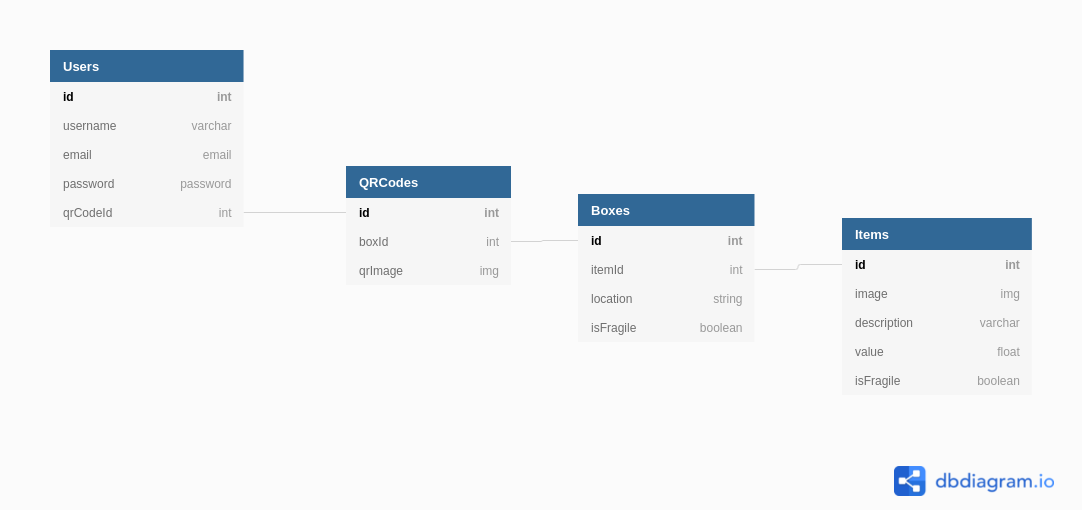
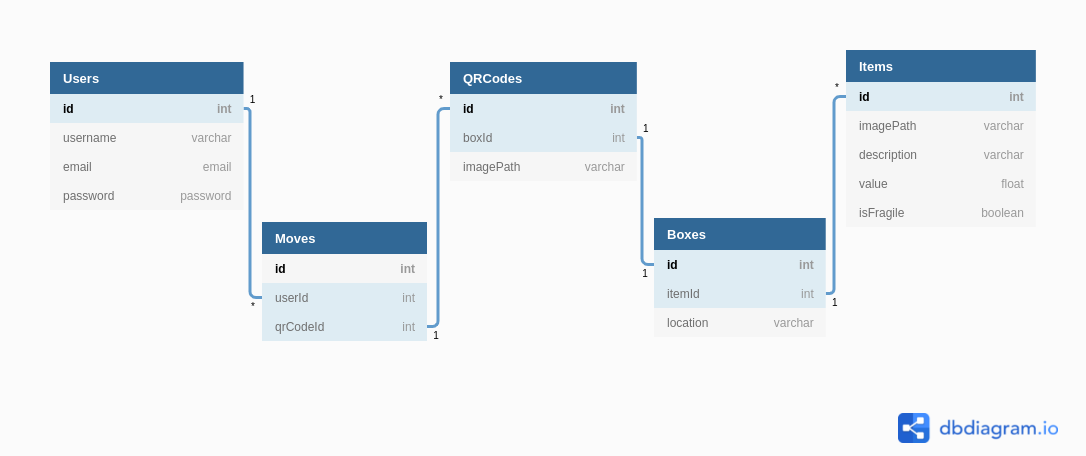
doc: add endpoints and update ERD/layout images.

diff --git a/README.md b/README.md
@@ -32,6 +32,20 @@ Boxes have assoicated QR codes so users/movers can keep track of when an a box l
 
 [ ] User should only be able to add/remove/edit QR codes, boxes, items if they are logged in.
 
+## Endpoints
+
+GET, POST, PUT, DELETE supported for the following routes
+
+- /users
+- /users/1
+- /users/edit/1
+- /boxes
+- /boxes/1
+- /boxes/edit/1
+- /items
+- /items/1
+- /items/edit/1
+
 ## ERD
 
 Intial entity relationship diagram below.
